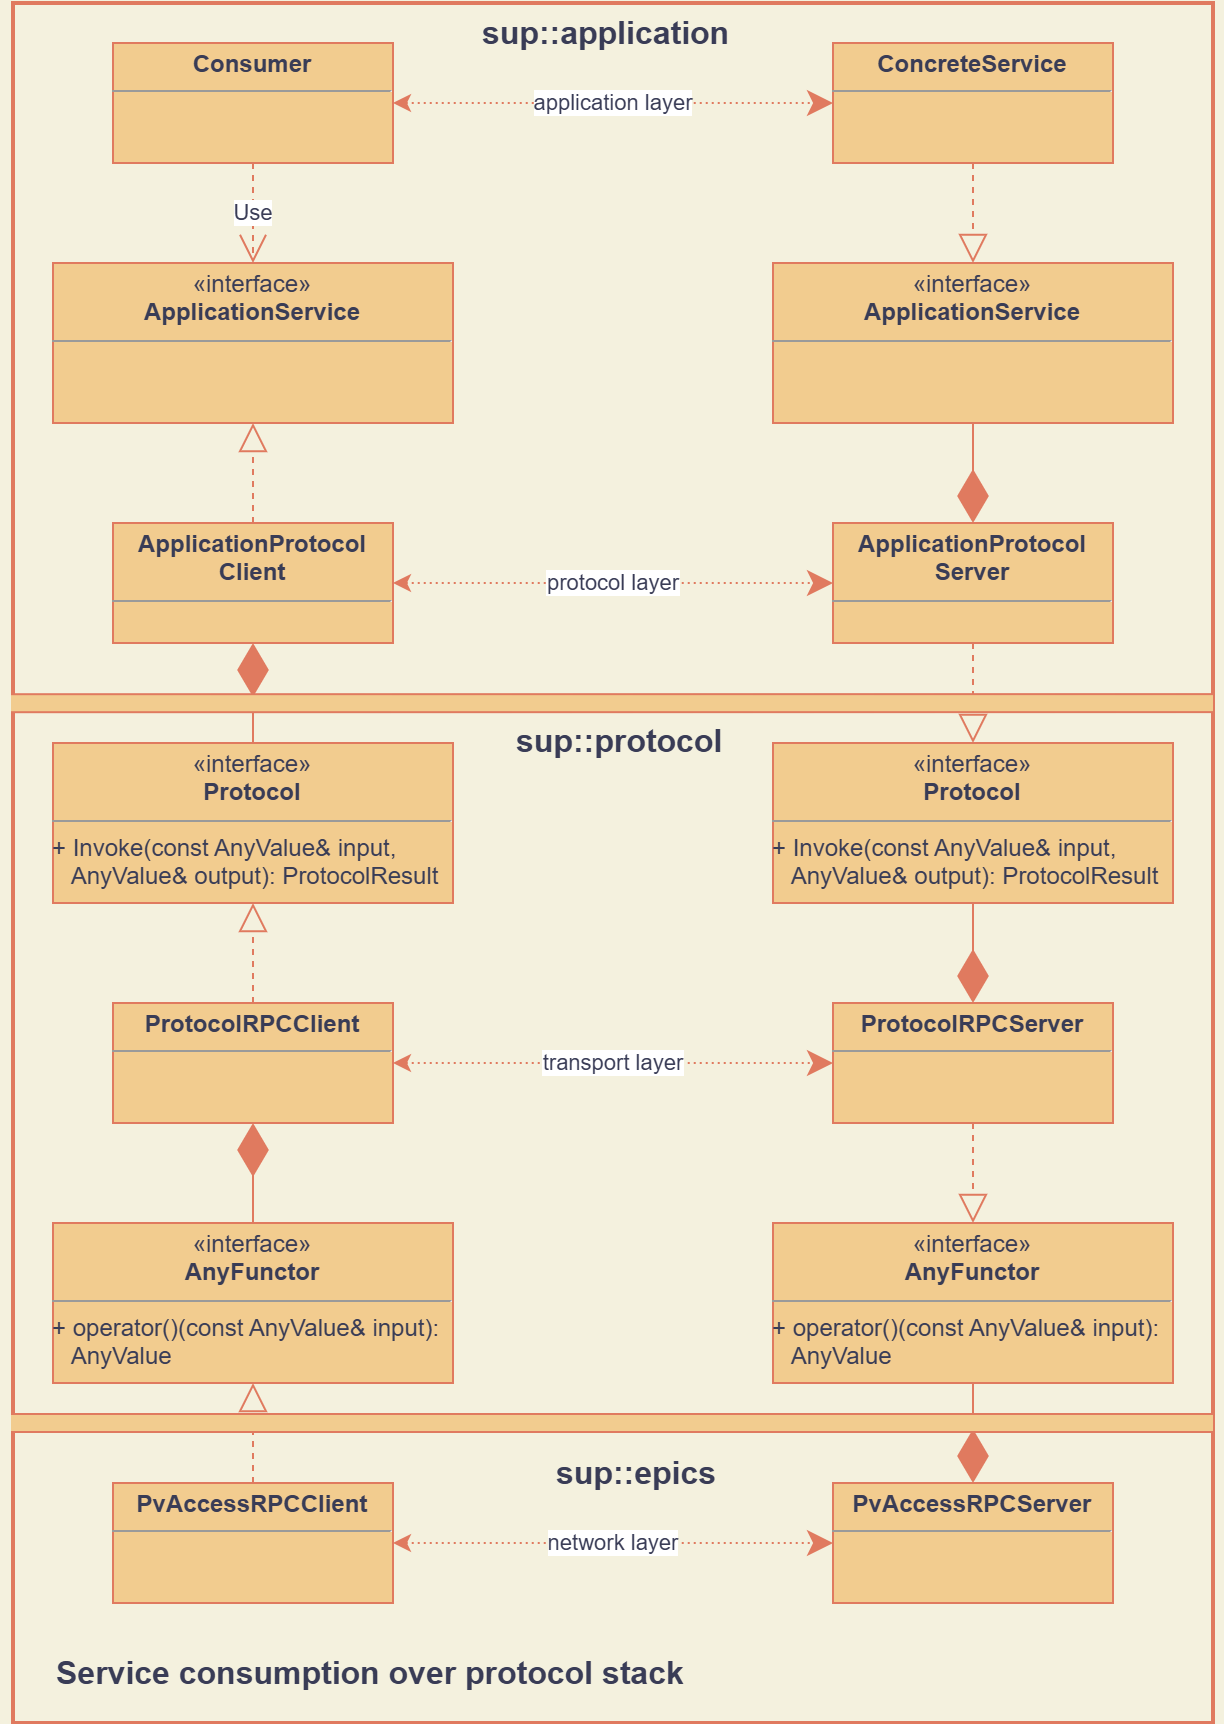
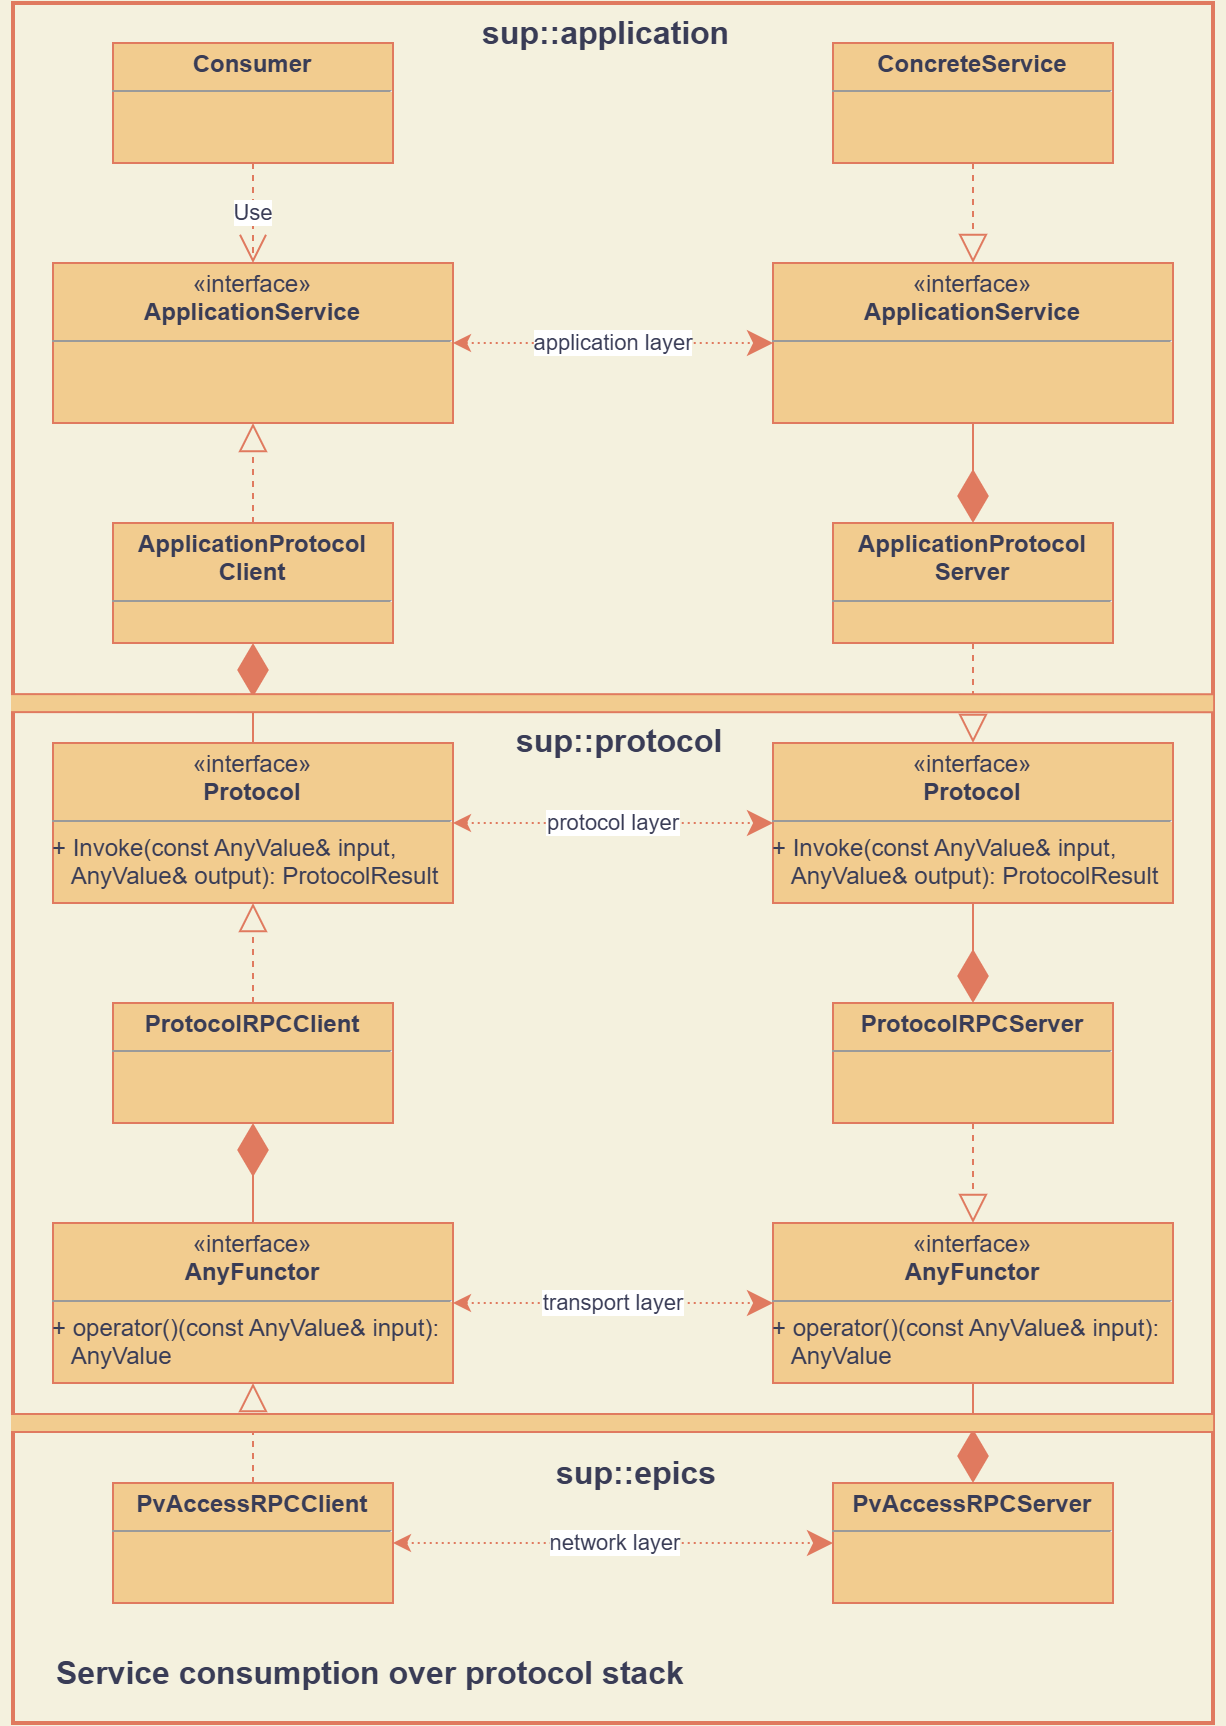
Update protocol stack diagram and document synchronous transport packets

diff --git a/doc/protocol_stack.rst b/doc/protocol_stack.rst
@@ -102,6 +102,50 @@ The protocol and transport layer is defined by `sup-protocol`, as can be seen fr
 .. note::
    The split into a protocol and transport layer is not strictly necessary, but it allows for a more flexible design. The protocol layer is responsible for defining the structure of the messages exchanged between the client and server, while the transport layer is responsible for defining how these messages are exchanged over the network. This allows for supporting asynchronous communication over a synchronous network protocol.
 
+The translation between the protocol and transport layer is done by the `ProtocolRPCClient` and `ProtocolRPCServer` classes. Multiple transport layer protocols are supported, depending on whether the transport layer is synchronous or asynchronous and whether the payload is encoded or not.
+
+The choice of encoding and (a)synchronous communication is determined by the `ProtocolRPCClient`'s configuration. The server will respect the same transport layer protocol as requested by the client or return an error status if this is not supported.
+
+Synchronous transport layer
+"""""""""""""""""""""""""""
+
+If `ProtocolRPCClient` is configured to use synchronous communication over the transport layer, it will create a transport packet that is structured as follows:
+
+.. code-block:: text
+
+   # Without encoding
+   struct sup::protocolRequest/v2.1
+       query: <payload>
+       encoding: int32 0 (optional)
+
+   # With base64 encoding
+   struct sup::protocolRequest/v2.1
+       query: string <base64 encoded payload>
+       encoding: int32 1
+
+where `<payload>` represents the `input` parameter of the `Protocol::Invoke` method. In case no encoding of the payload is used, the `encoding` field is optional and can be omitted. Currently, only two encoding methods are supported:
+
+* No encoding (0)
+* Base64 encoding (1): the `input` parameter of the `Protocol::Invokde` method will first be serialized into a binary format that is then base64 encoded into a string.
+
+The `ProtocolRPCServer` object at the server side will unpack this packet to extract the original `input` parameter, possibly using base64 decoding. It will then call the custom `Protocol::Invoke` method of the application and create a return packet as follows:
+
+.. code-block:: text
+
+    # Without encoding
+   struct sup::protocolReply/v2.1
+       result: uint32 0
+       reply: <payload>
+       encoding: int32 0 (optional)
+
+   # With base64 encoding
+   struct sup::protocolReply/v2.1
+       result: uint32 0
+       reply: string <base64 encoded payload>
+       encoding: int32 1
+
+where `<payload>` now refers to the `output` parameter of the `Protocol::Invoke` method. The `result` field encodes the return value of the `Protocol::Invoke` method.
+
 Network Layer
 ^^^^^^^^^^^^^
 
@@ -110,3 +154,5 @@ At the bottom part of the diagram is the network implementation (the diagram use
 .. function:: AnyValue operator()(const AnyValue& input)
 
    The function call operator with an `AnyValue` parameter and return value.
+
+An implementation of the network layer is only required to forward this call to the `ProtocolRPCServer` at the server side and return the corresponding return value.
